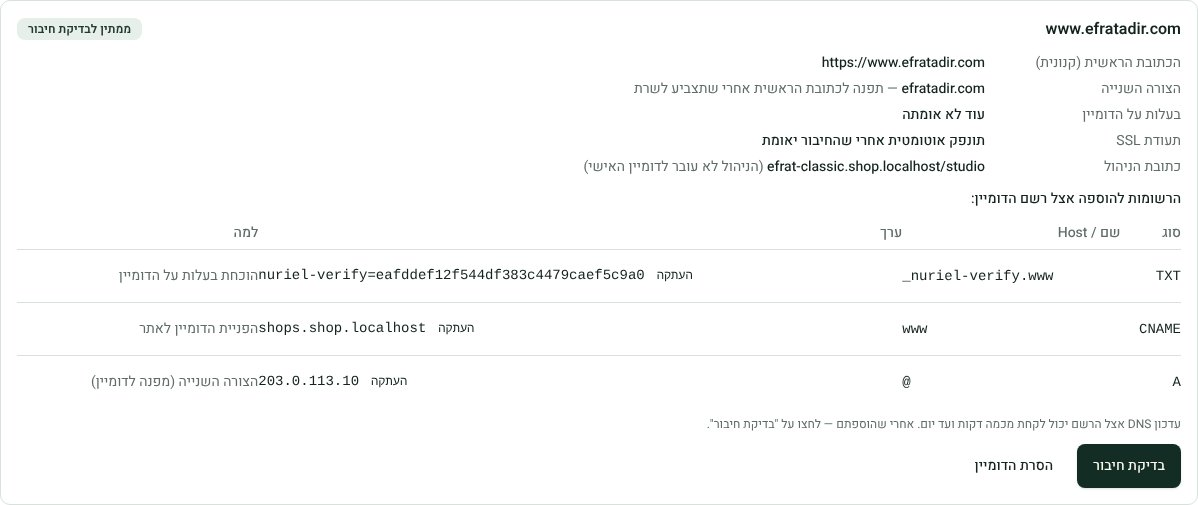
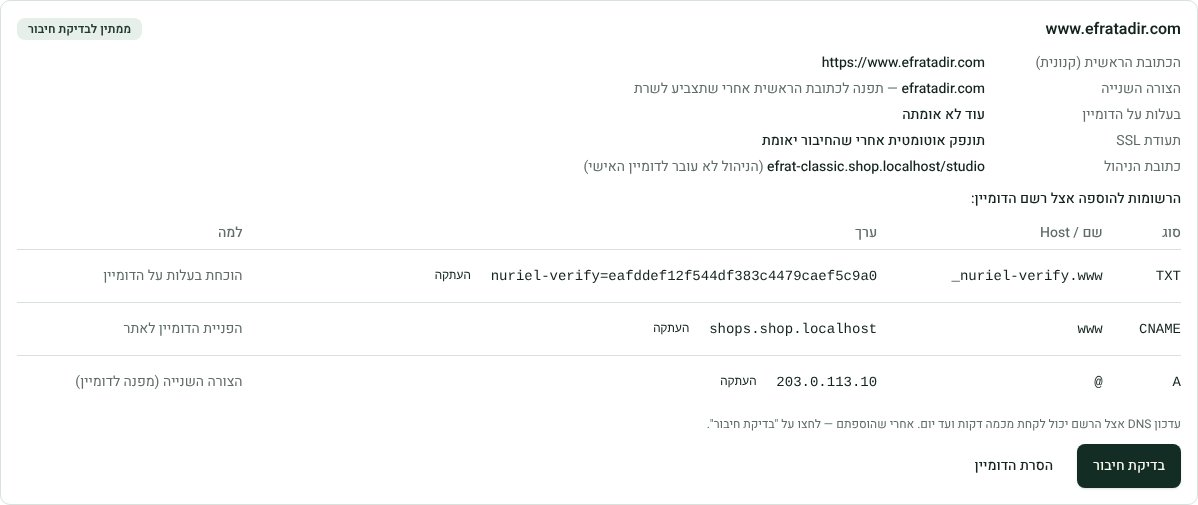
Websites platform report: final test numbers (full E2E 365 passed, rerun on the last build 49/49), DNS table spacing shot, site file shot
Claude-Session: https://claude.ai/code/session_01NBbGQpmApvnxhH3F3w1ekJ

diff --git a/docs/websites/platform/report.md b/docs/websites/platform/report.md
@@ -10,7 +10,7 @@
 
 | # | שאלה | תשובה |
 | --- | --- | --- |
-| 1 | האם האתר של אפרת מקושר לניהול הפלטפורמה? | **כן.** בפאנל: "אתרי אינטרנט" → "תיק האתר" של אפרת — כתובת, מצב, תבנית, דומיין, תאריכי עדכון ופרסום, יומן פעולות, וכפתורי "כניסה לניהול האתר" / "תצוגה מקדימה" / "עריכת תוכן" / "כתובת האתר" / "בדיקת בקשת פרסום". |
+| 1 | האם האתר של אפרת מקושר לניהול הפלטפורמה? | **כן.** בפאנל: "אתרי אינטרנט" → "תיק האתר" של אפרת — כתובת, מצב, תבנית, דומיין, תאריכי עדכון ופרסום, יומן פעולות, וכפתורי "כניסה לניהול האתר" / "תצוגה מקדימה" / "עריכת תוכן" / "כתובת ודומיין" / "בדיקת בקשת פרסום". |
 | 2 | אפשר לנהל אותו בלי החשבון של אפרת? | **כן**, בהרשאות מנהל הפלטפורמה הקיימות: קוד כניסה חד-פעמי (2 דקות, קשור לאתר הזה בלבד), בלי משתמש פיקטיבי ובלי הסיסמה שלה. כל כניסה וכל פעולה נרשמות ביומן עם זהות המנהל, האתר, הפעולה והתאריך, ומסומנות "מנהל פלטפורמה". |
 | 3 | אפרת יכולה לשנות את תת-הדומיין? | **כן** — "הגדרות האתר → כתובת האתר": רואה את הכתובת, בודקת אם כתובת חדשה פנויה, שומרת. כתובות שמורות / תפוסות / לא תקינות נחסמות. השינוי לא מוחק ולא יוצר אתר; הכתובת הישנה מפנה ב-**301** לחדשה במשך שנה. |
 | 4 | אפשר לחבר בעתיד דומיין אישי (www.efratadir.com)? | **כן** — בחירה בין כתובת Nuriel לדומיין אישי, הוראות DNS מדויקות, הוכחת בעלות ב-TXT, בדיקת DNS אמיתית מהשרת, SSL אוטומטי, כתובת קנונית אחת, ו-www ↔ בלי www מופנה. **לא חובר ולא שונה שום DNS.** |
@@ -32,7 +32,7 @@
 - **פרטים:** כתובת האתר וכתובת הניהול (וכתובות קודמות שמפנות אליה), סטטוס האתר (פעיל / מושעה), סטטוס הפרסום,
   התבנית, הדומיין האישי ומצבו (ממתין לבדיקה / אומת / SSL פעיל), העדכון האחרון של הטיוטה (מתי ומי), בעל/ת
   העסק, ומספר התמונות והגופנים בספרייה.
-- **כפתורים:** "כניסה לניהול האתר", "תצוגה מקדימה", "עריכת תוכן", "כתובת האתר" — כל אחד פותח קוד כניסה
+- **כפתורים:** "כניסה לניהול האתר", "תצוגה מקדימה", "עריכת תוכן", "כתובת ודומיין" — כל אחד פותח קוד כניסה
   חד-פעמי ונכנס ישר למסך הנכון (`/studio`, `/studio/preview`, `/studio/editor`, `/studio/settings`).
   ו**"בדיקת בקשת פרסום"** (כשיש בקשה): תצוגה של הגרסה במחשב / בנייד → **"אישור ופרסום"** או **"החזרה לתיקונים"**
   עם הערה לבעלת האתר.
@@ -292,8 +292,9 @@
 | ארכיטקטורה (גבולות בין מנועים) | 75/75 ✅ — המתאם החדש (`domains.server.ts`) והנתיבים החדשים ברשימות ההיתרים |
 | מסד (Postgres, מאפס ×2 + עם נתונים) | **3377/3377** ×3 ✅ (כולל 24 בדיקות חדשות של מיגרציה 197) |
 | Rollback לכל המיגרציות + החזרה | **273 בדיקות, 0 כישלונות** ✅ |
-| E2E — הבדיקות החדשות (`websites-platform-site.spec.ts`) | __PF__ |
-| E2E — כל הפלטפורמה (חנויות, מתחמים, אתרים; מחשב + נייד) | __E2E__ |
+| E2E — הבדיקות החדשות (`websites-platform-site.spec.ts`) | **7/7** ✅ (7 תרחישים שמכסים את 12 הבדיקות) — בהרצה המלאה, ושוב על הבנייה האחרונה |
+| E2E — כל הפלטפורמה (חנויות, מתחמים, אתרים; מחשב + נייד) | **365 עברו, 13 דולגו, 1 נכשלה** (21.6 דקות). הכשל: `billing-agreements.spec.ts:108` — בשלב הכניסה של בעל חנות ב' הדפדפן נשאר בעמוד ההתחברות (החלק של מנהל הפלטפורמה באותה בדיקה עבר). אזור החיוב וההתחברות לא שונו כאן, והבדיקה **עברה בהרצה החוזרת** |
+| E2E — הרצה חוזרת על הבנייה האחרונה (אחרי שני התיקונים האחרונים) | כניסות הבדיקה 4/4, חיוב 4/4, `websites-*` 32/32 (כולל 15 של פניות, 9 של המנוע ו-7 החדשות), מנועים 3/3, ניתוב אתרים 6/6 — **49/49** ✅ |
 
 ### 10.3 מה נוסף / שונה (קוד)
 - **מיגרציה 197** `20261117090000_bp_site_address.sql` + Rollback + 24 בדיקות SQL.
@@ -311,7 +312,7 @@
 | קובץ | מה |
 | --- | --- |
 | `00-platform-websites-list.jpg` | הפאנל: רשימת האתרים עם "תיק האתר" |
-| `01-platform-site-file.jpg` | תיק האתר של אפרת: פרטים, כפתורים, יומן (ברשומות שנוצרו במסד הבדיקה לפני מיגרציה 197 אין עדיין את הסימון "מנהל פלטפורמה"; כל רשומה מאז — מסומנת) |
+| `01-platform-site-file.jpg` | תיק האתר של אפרת: פעולות, פרטים, ראש היומן (כל פעולה של מנהל הפלטפורמה מסומנת; רשומות ישנות במסד הבדיקה מלפני מיגרציה 197 — בלי הסימון) |
 | `02-studio-settings-address.jpg` | "הגדרות האתר": כתובת (בדיקת `efrat` — פנויה), דומיין, גוגל |
 | `03-google-desktop.jpg` / `04-google-mobile.jpg` | תצוגת גוגל — מחשב / נייד |
 | `05-studio-custom-domain-choice.jpg` | בחירה: דומיין Nuriel / אישי |
